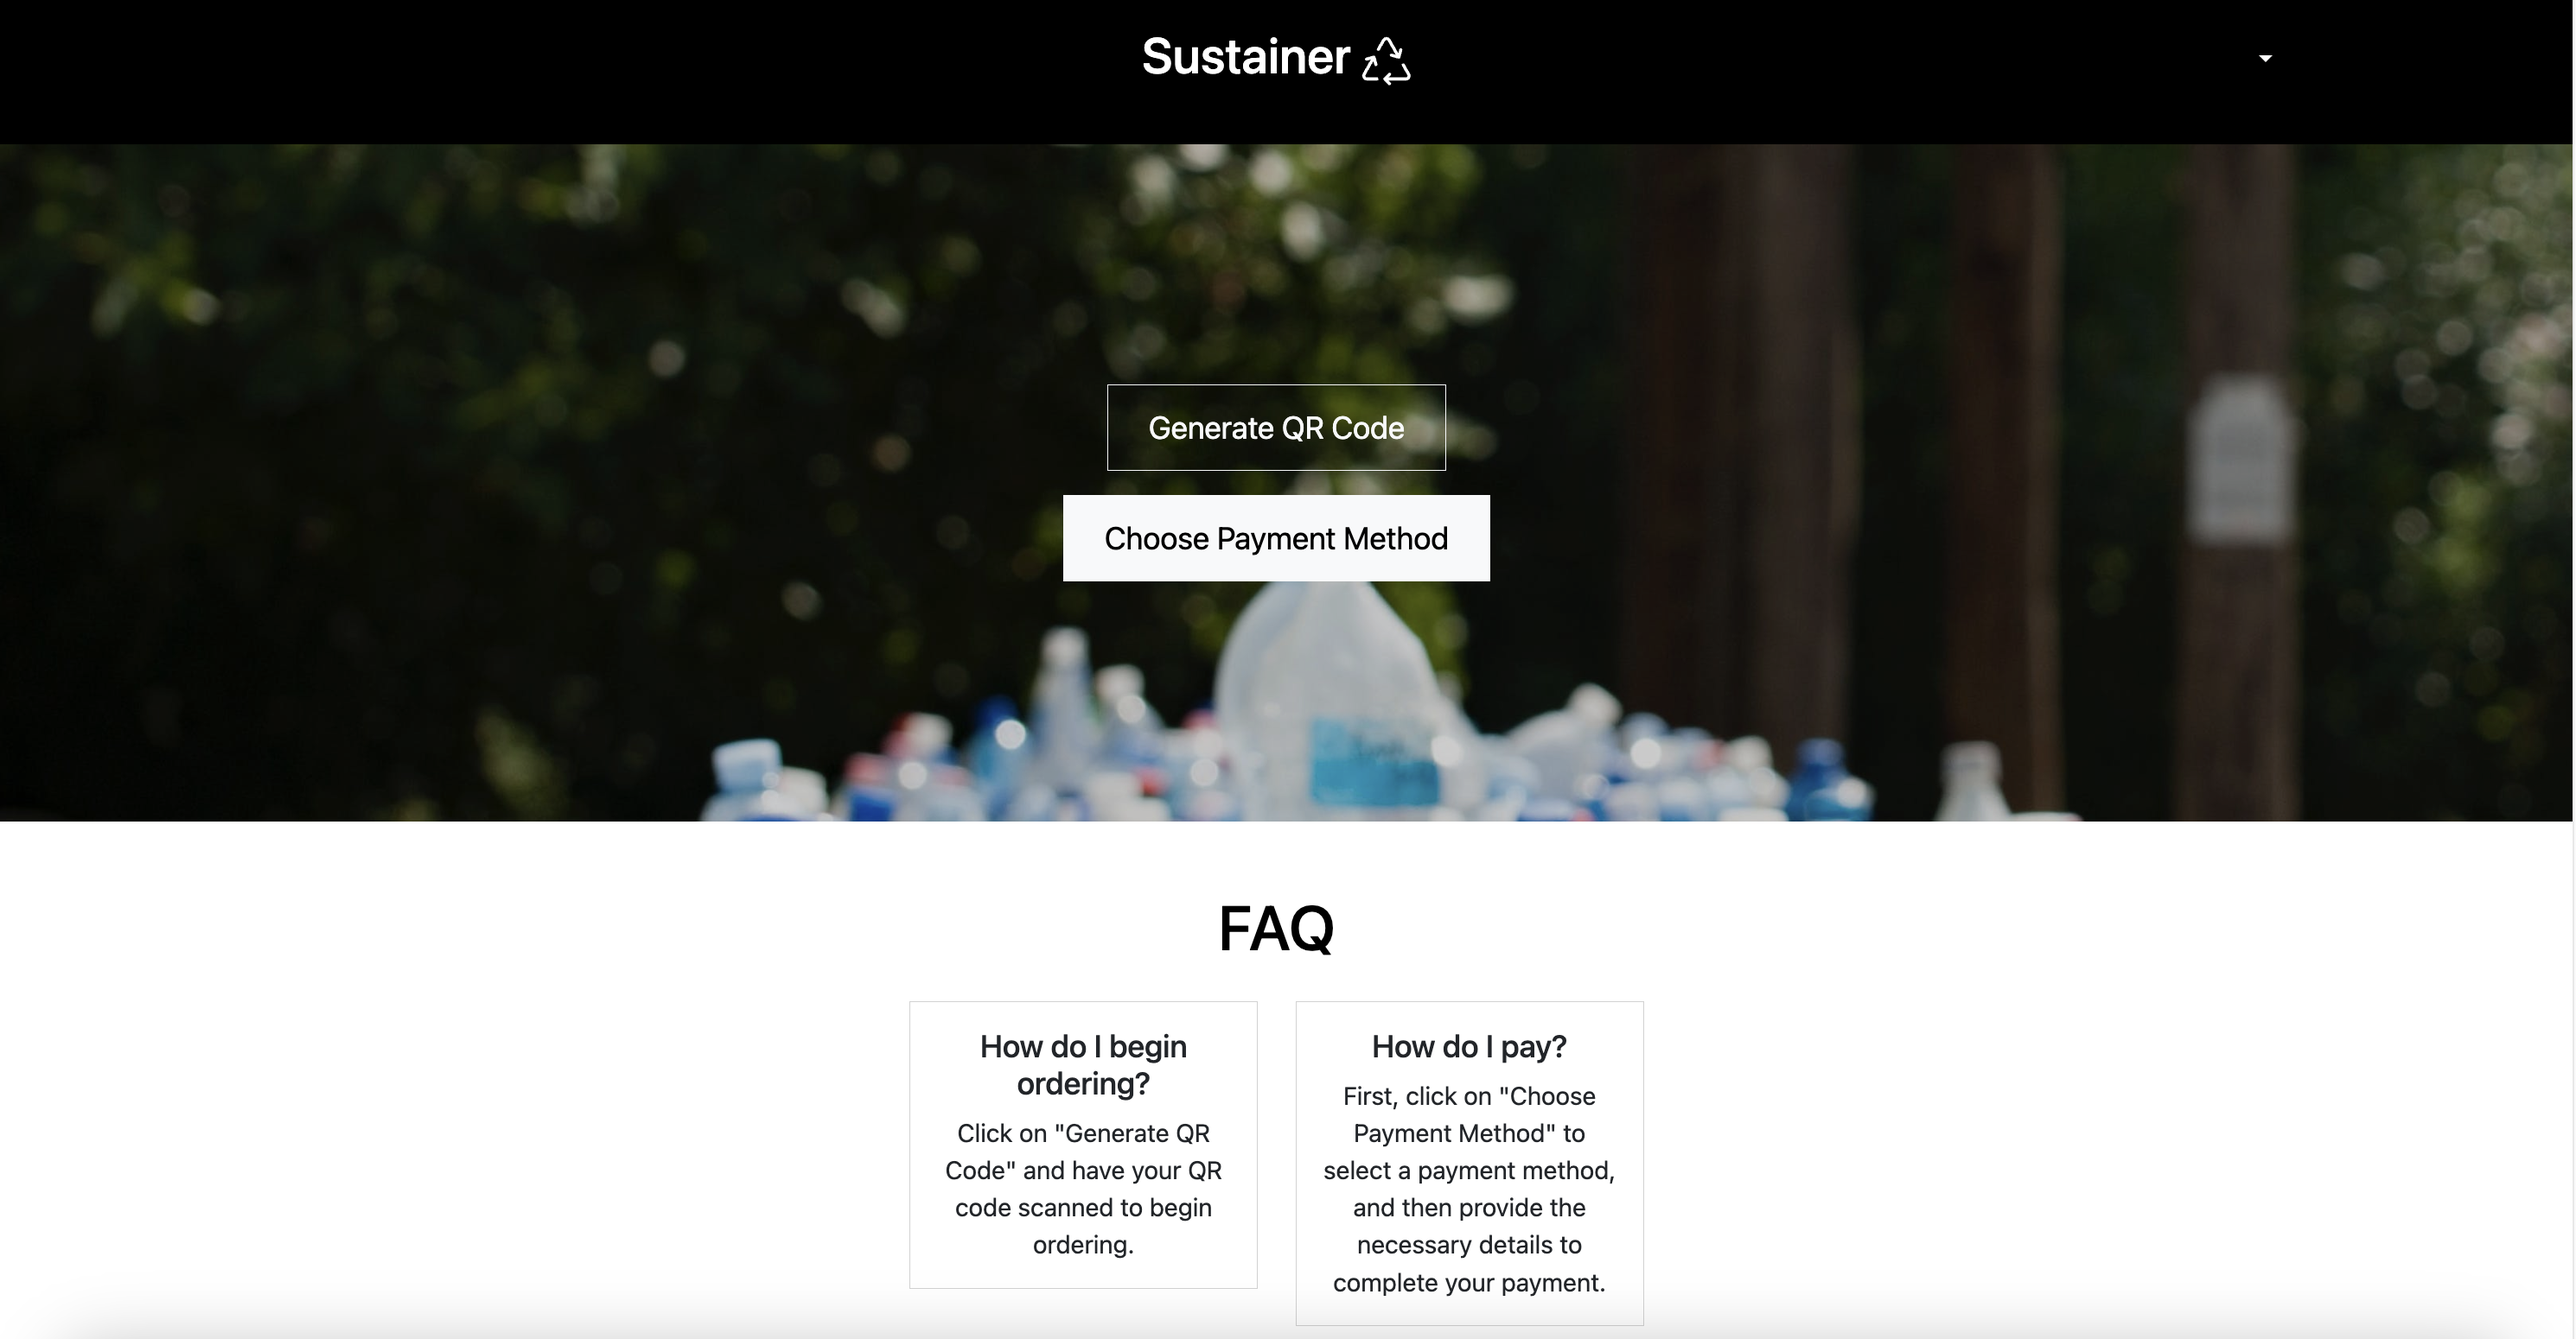
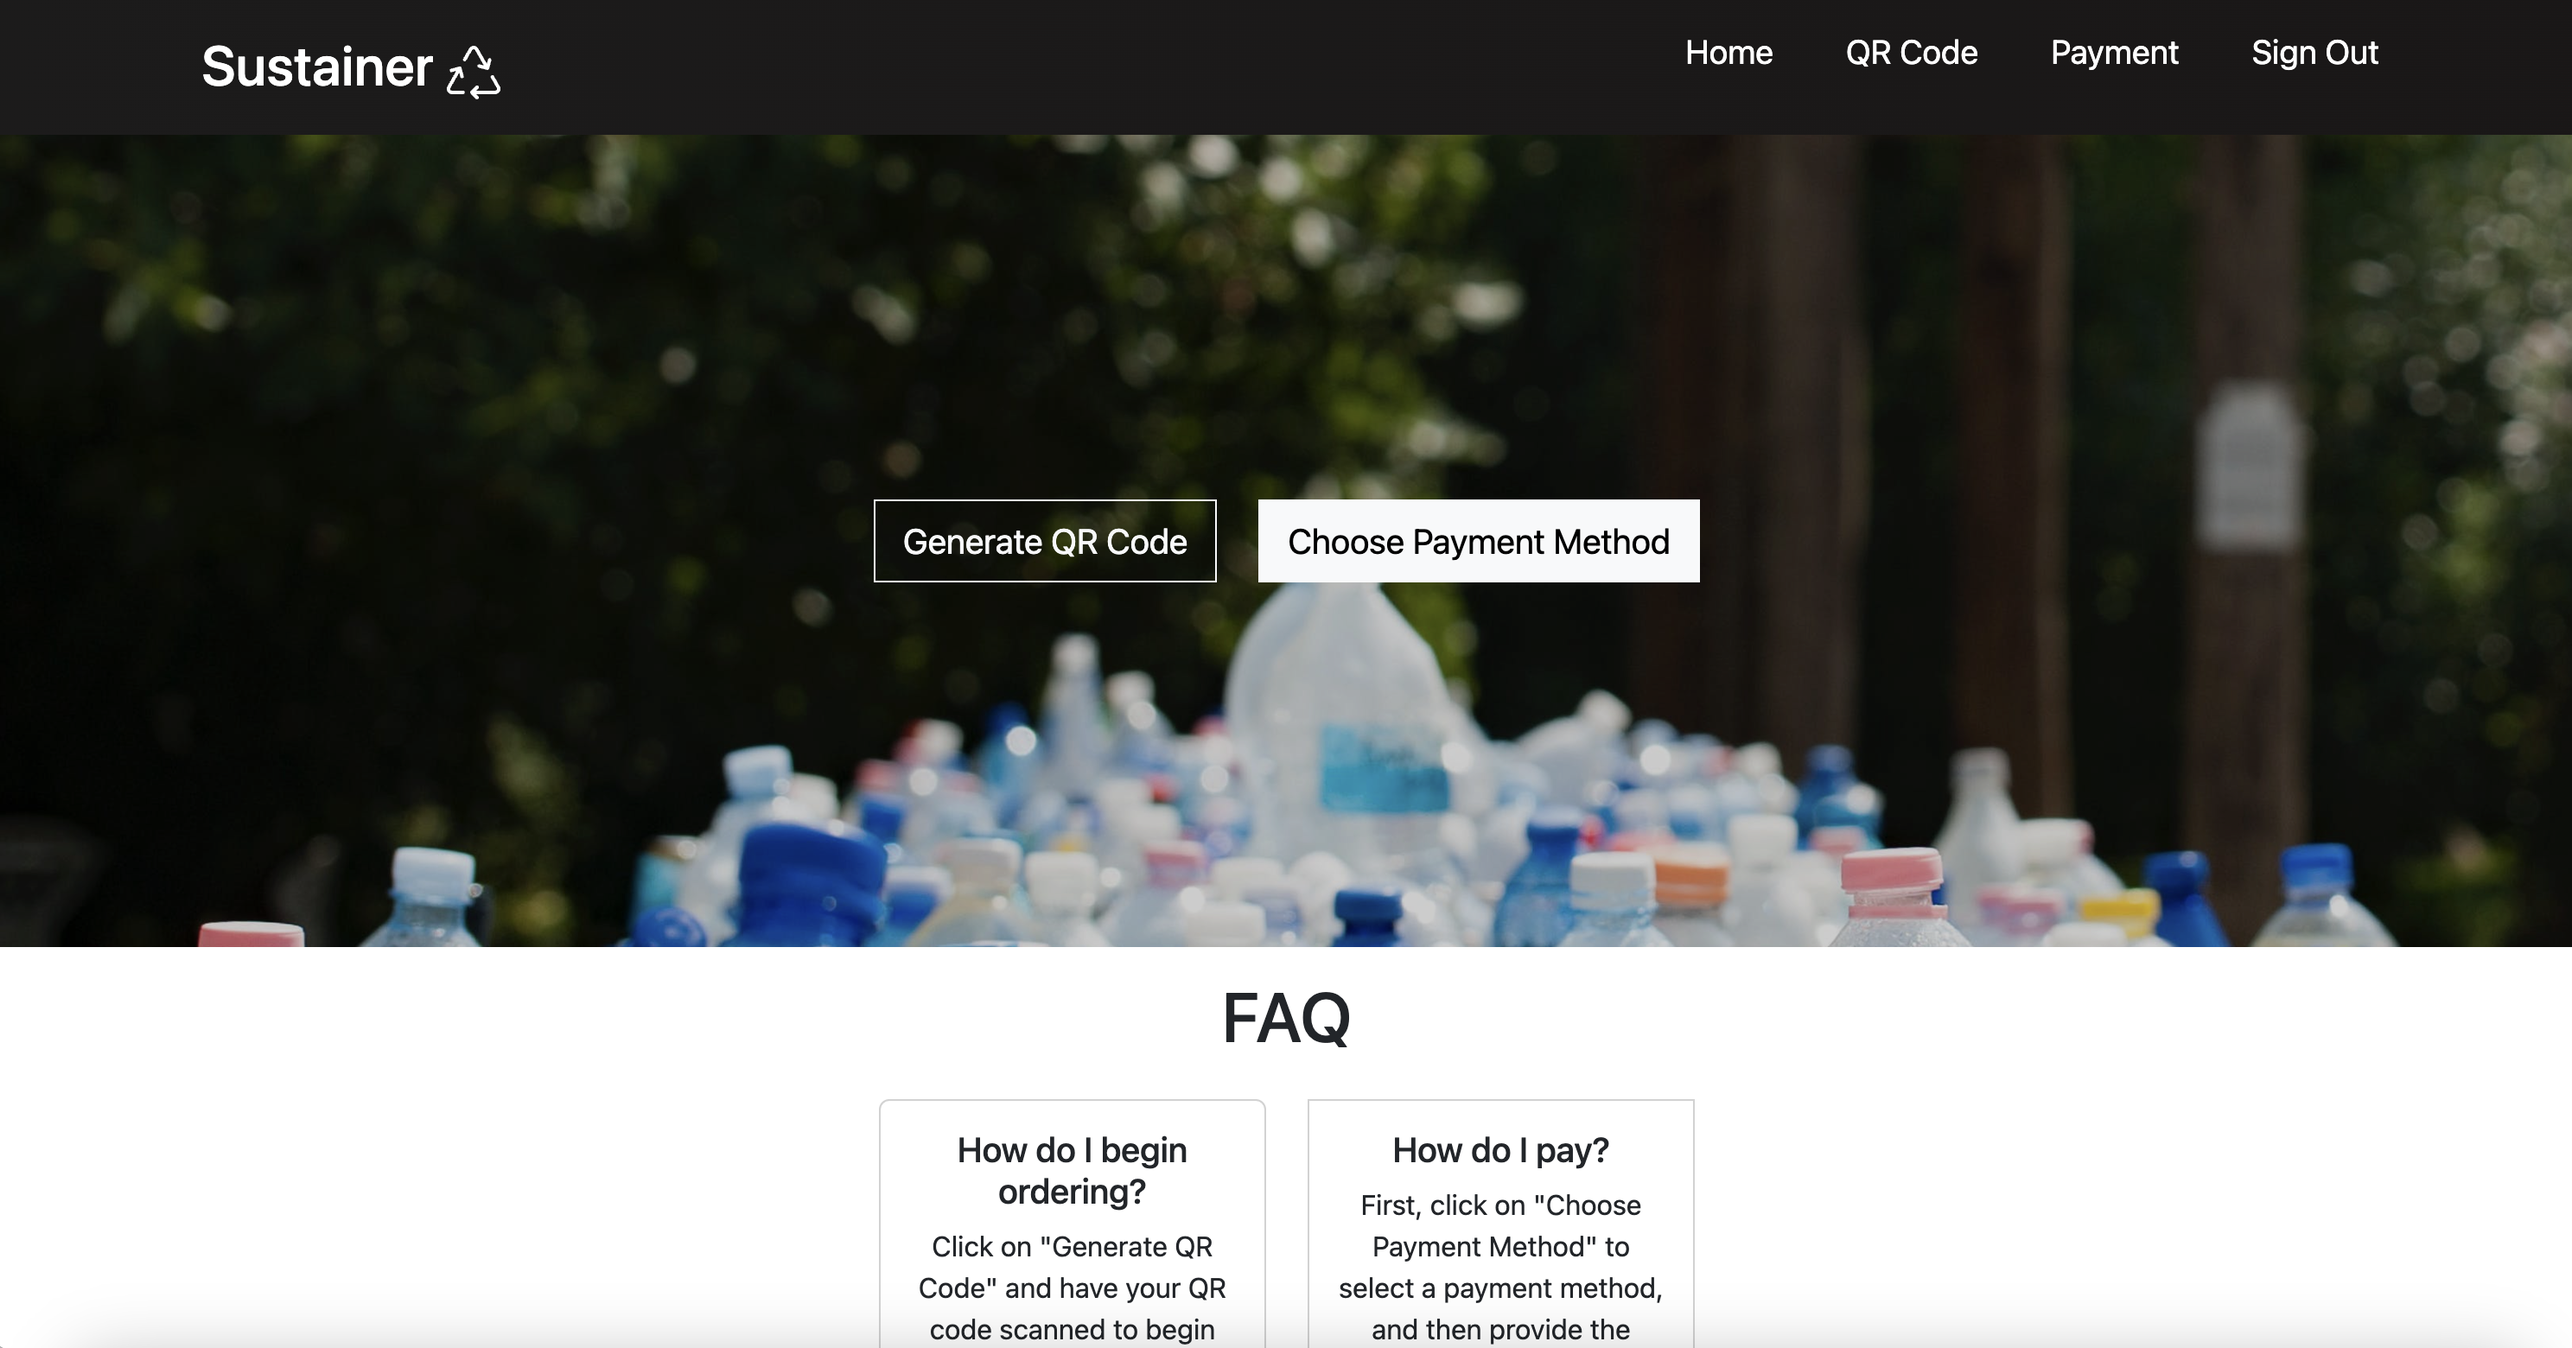
Updated page images

diff --git a/index.md b/index.md
@@ -22,6 +22,7 @@
 ## Overview
 
 ### What is Sustainer?
+
 Sustainer is a reusable container tracking app that helps users and the non-profit Zero Waste O'ahu stay accountable for the return of reusable takeout containers at large events. The initial Full Cycle Takeout pilot program, responsible for creating and renting out reusable takeout containers, has already shown promise in reducing waste for restaurants, but has struggled with the return of the containers. This makes the program unsustainable financially and unsustainable for the planet. Failing to solve this problem leads to more one-time use products becoming trash and more reusable containers needing to be produced. Sustainer aims to solve this problem by providing a platform for Zero Waste O'ahu to track rented out containers and provide incentives for their return. 
 
 ## Goals of the app
@@ -61,44 +62,63 @@ The fields labeled **PK** (Email for Accounts) indicate that this is a unique va
 <img src="doc/sustainer-flow-chart.png" alt="" style="padding-top: 5px; padding-bottom: 5px">
 
 
-## User Guide (Mockups)
+## User Guide
 
 This section provides a mockup walkthrough of the Sustainer user interface and its capabilities.
 
 ### Landing Page
+
 The landing page is presented to users when they first visit the site. It provides a brief overview and purpose of the app.
 
 <img src="doc/landing-page.png" alt="" style="padding-top: 5px; padding-bottom: 50px">
 
 ### UserRegistration Page
+
 To order the reusable containers at events, users must sign up by clicking on the "Sign up" dropdown menu in the upper right corner of the navbar. This registers the user into a system at a certain event and generates a QR code to act as an "ID" for the event.
 
 <img src="doc/register-page.png" alt="" style="padding-top: 5px; padding-bottom: 50px">
 
 ### Login Page
+
 For returning users, click on the “Login” button in the dropdown located in upper right corner of the navbar, then select “Sign in” to go to get your newly-generated QR code for the event. You must have been previously registered with the system to use this option:
 
 <img src="doc/login-page.png" alt="" style="padding-top: 5px; padding-bottom: 50px">
 
 ### User Home Page
+
 After logging in, you are taken to the home page, which presents generic information on how to use the app. On this page, there are options to link your credit card information and get your QR code. 
 
 <img src="doc/user-home-page.png" alt="" style="padding-top: 5px; padding-bottom: 50px">
 
 ### QR Code Generator
+
 Clicking on "Generate QR Code" will display the user's personal QR code. This will be used when the user orders food at the event. Customers will scan the QR at a food truck or vendor, which will "assign" those containers to them during the event. This helps admin keep track of the containers.
 
 <img src="doc/qr-code-generator.png" alt="" style="padding-top: 5px; padding-bottom: 50px">
 
 ### Payment Portal
+
 Clicking on "Choose Payment Method" will direct you to form where you can link and input your credit card information. Credit card information is used as collateral for any containers that are ordered and **not** returned within a specific limit or duration of the ongoing event. Upon ordering containers, there will be a pending charge based on the number of containers ordered, with each container charged at a flat rate. Payment will not be processed on your account if containers are returned before the end of the event.
 
 <img src="doc/payment-page.png" alt="" style="padding-top: 5px; padding-bottom: 50px">
 
 ### Vendor Order Form
+
 Upon log in as a vendor, a form is displayed to allow vendors to order a certain number of containers for an event. This allows the Full Cycle Takeout program to accurately distribute the right number of containers to each vendor before a customer uses them when ordering take-out at the event.
 
 <img src="doc/vendor-order-form.png" alt="" style="padding-top: 5px; padding-bottom: 50px">
+
+### Vendor Order History Page
+
+Clicking on the "List Vendor Orders" nav link will show a history list of order forms that a vendor has filled out for all previous and upcoming events. Vendors will be able to edit current pending forms for an event that hasn't passed. They can also delete forms from their history.
+
+<img src="doc/vendor-order-history-page.png" alt="" style="padding-top: 5px; padding-bottom: 50px">
+
+### Scan QR Code Page
+
+After an event is over, moderators (workers) and administrators of the organization can use this page to scan QR codes on the containers and check them back in. This confirms that the user/consumer has returned all of their "assigned" containers from the event. Proper authorized accounts can only access this page by clicking on the "Scan Containers" nav link upon signing in. 
+
+<img src="doc/scan-containers-admin-page.png" alt="" style="padding-top: 5px; padding-bottom: 50px">
 
 ### Admin Stats Page
 Upon log in as an admin, moderators and administrators can view all containers during an event to accurately track them. This will display all the available containers, as well as the owner that is assigned or responsible for a specific container. The database table UI will also have a search and filter function to find a certain container and check if a specific user has returned their containers respectively. 
@@ -173,7 +193,6 @@ We expect the following issues to continue toward Milestone 3:
 
 [Sustainer GitHub Project Board M3](https://github.com/orgs/sus-tainer/projects/4/views/2):
 
-<img src="doc/M1.png" alt="" style="padding-top: 5px; padding-bottom: 50px">
 
 ## Team
 
